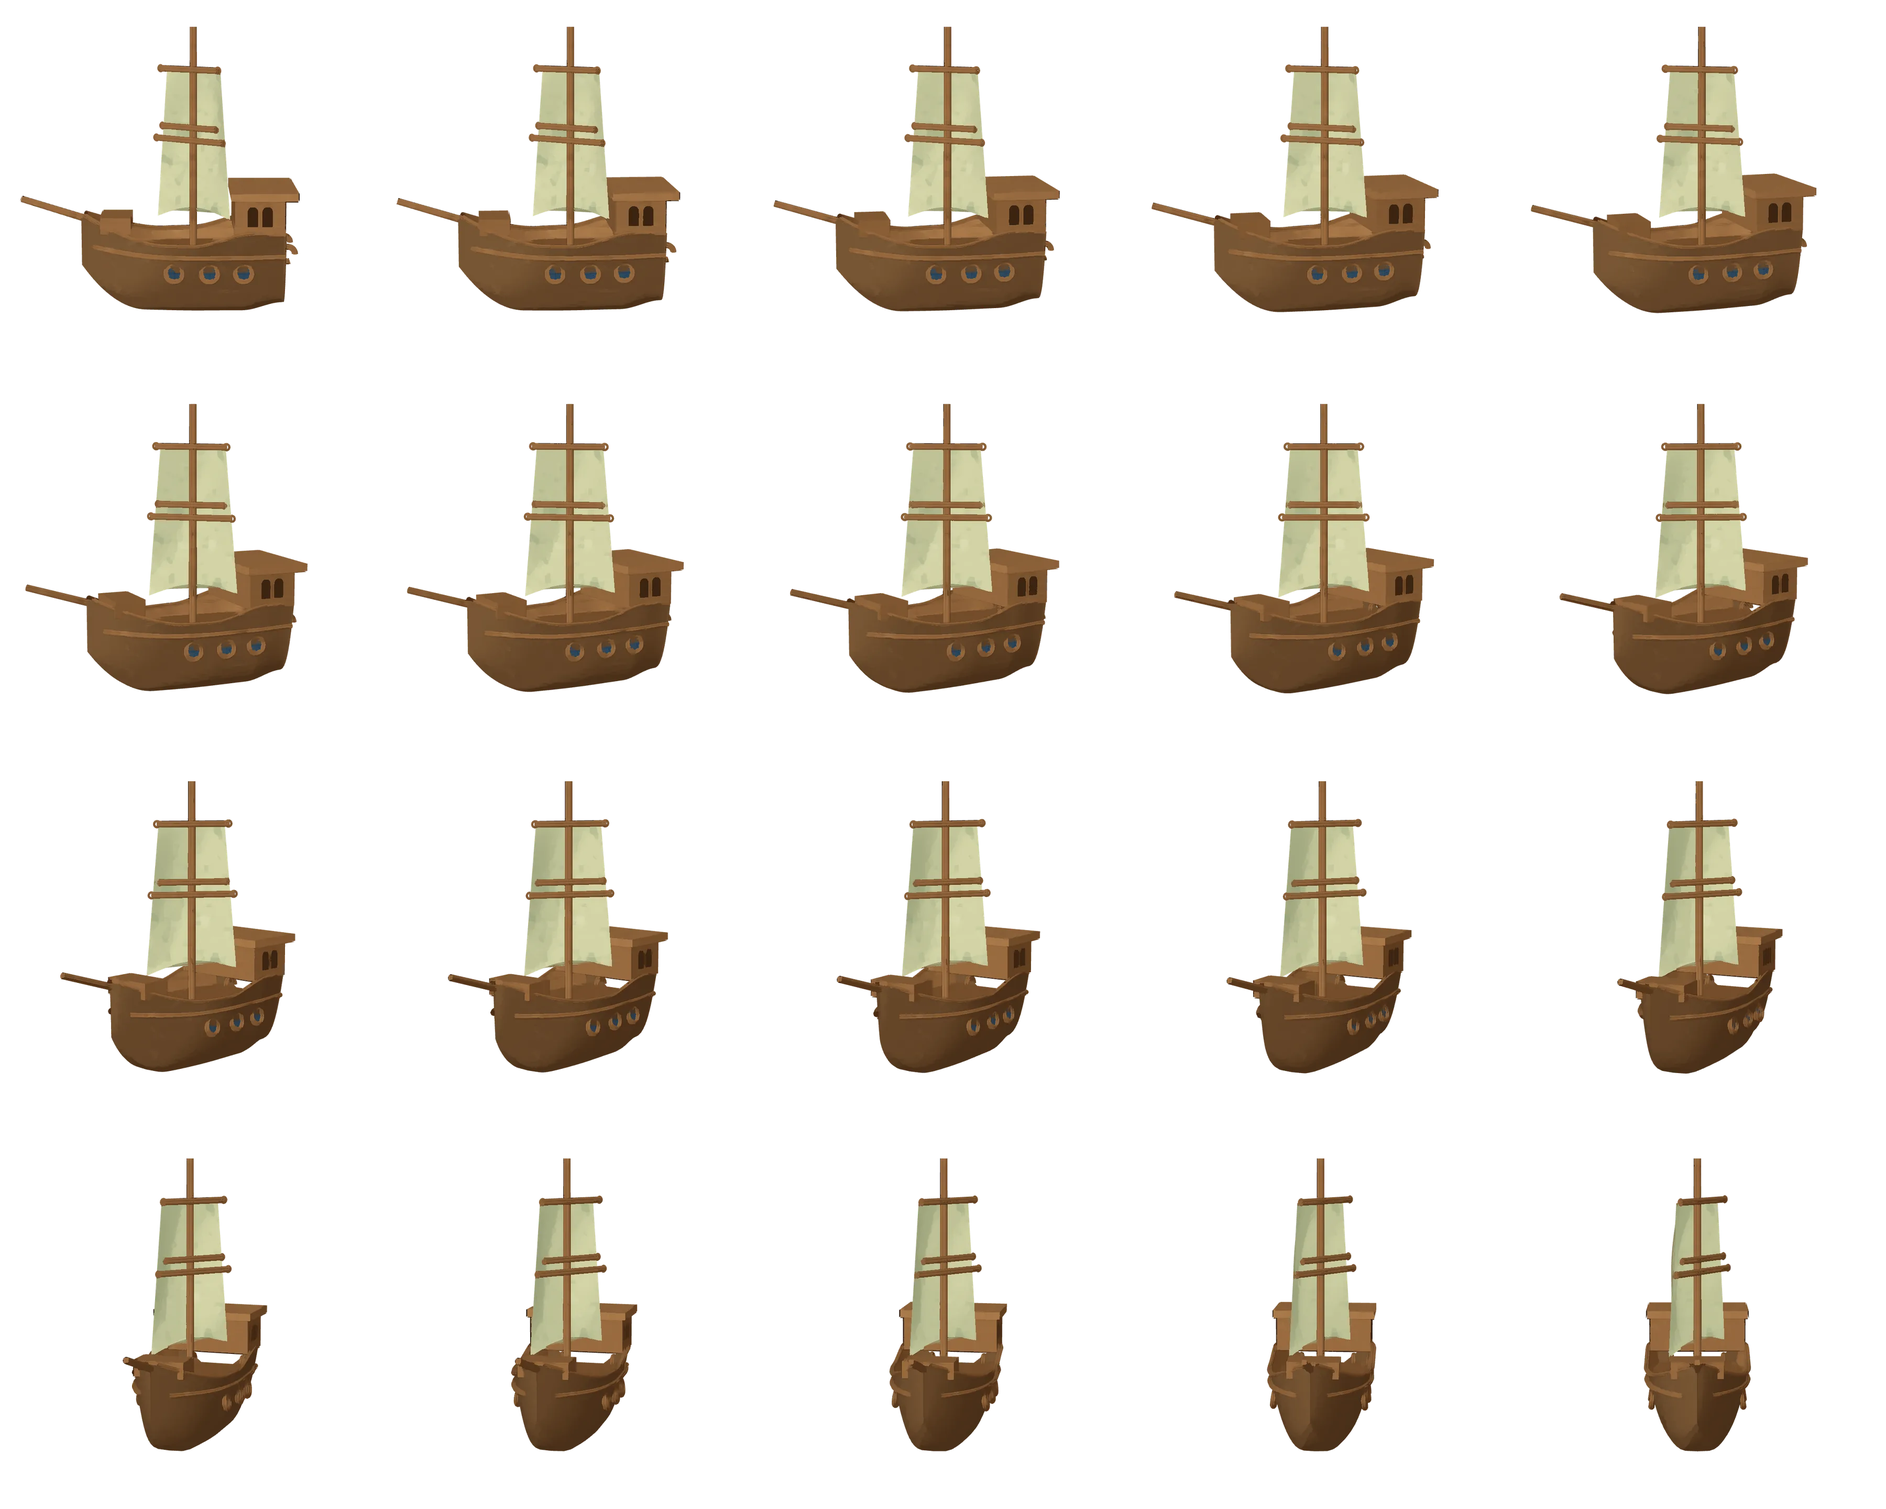
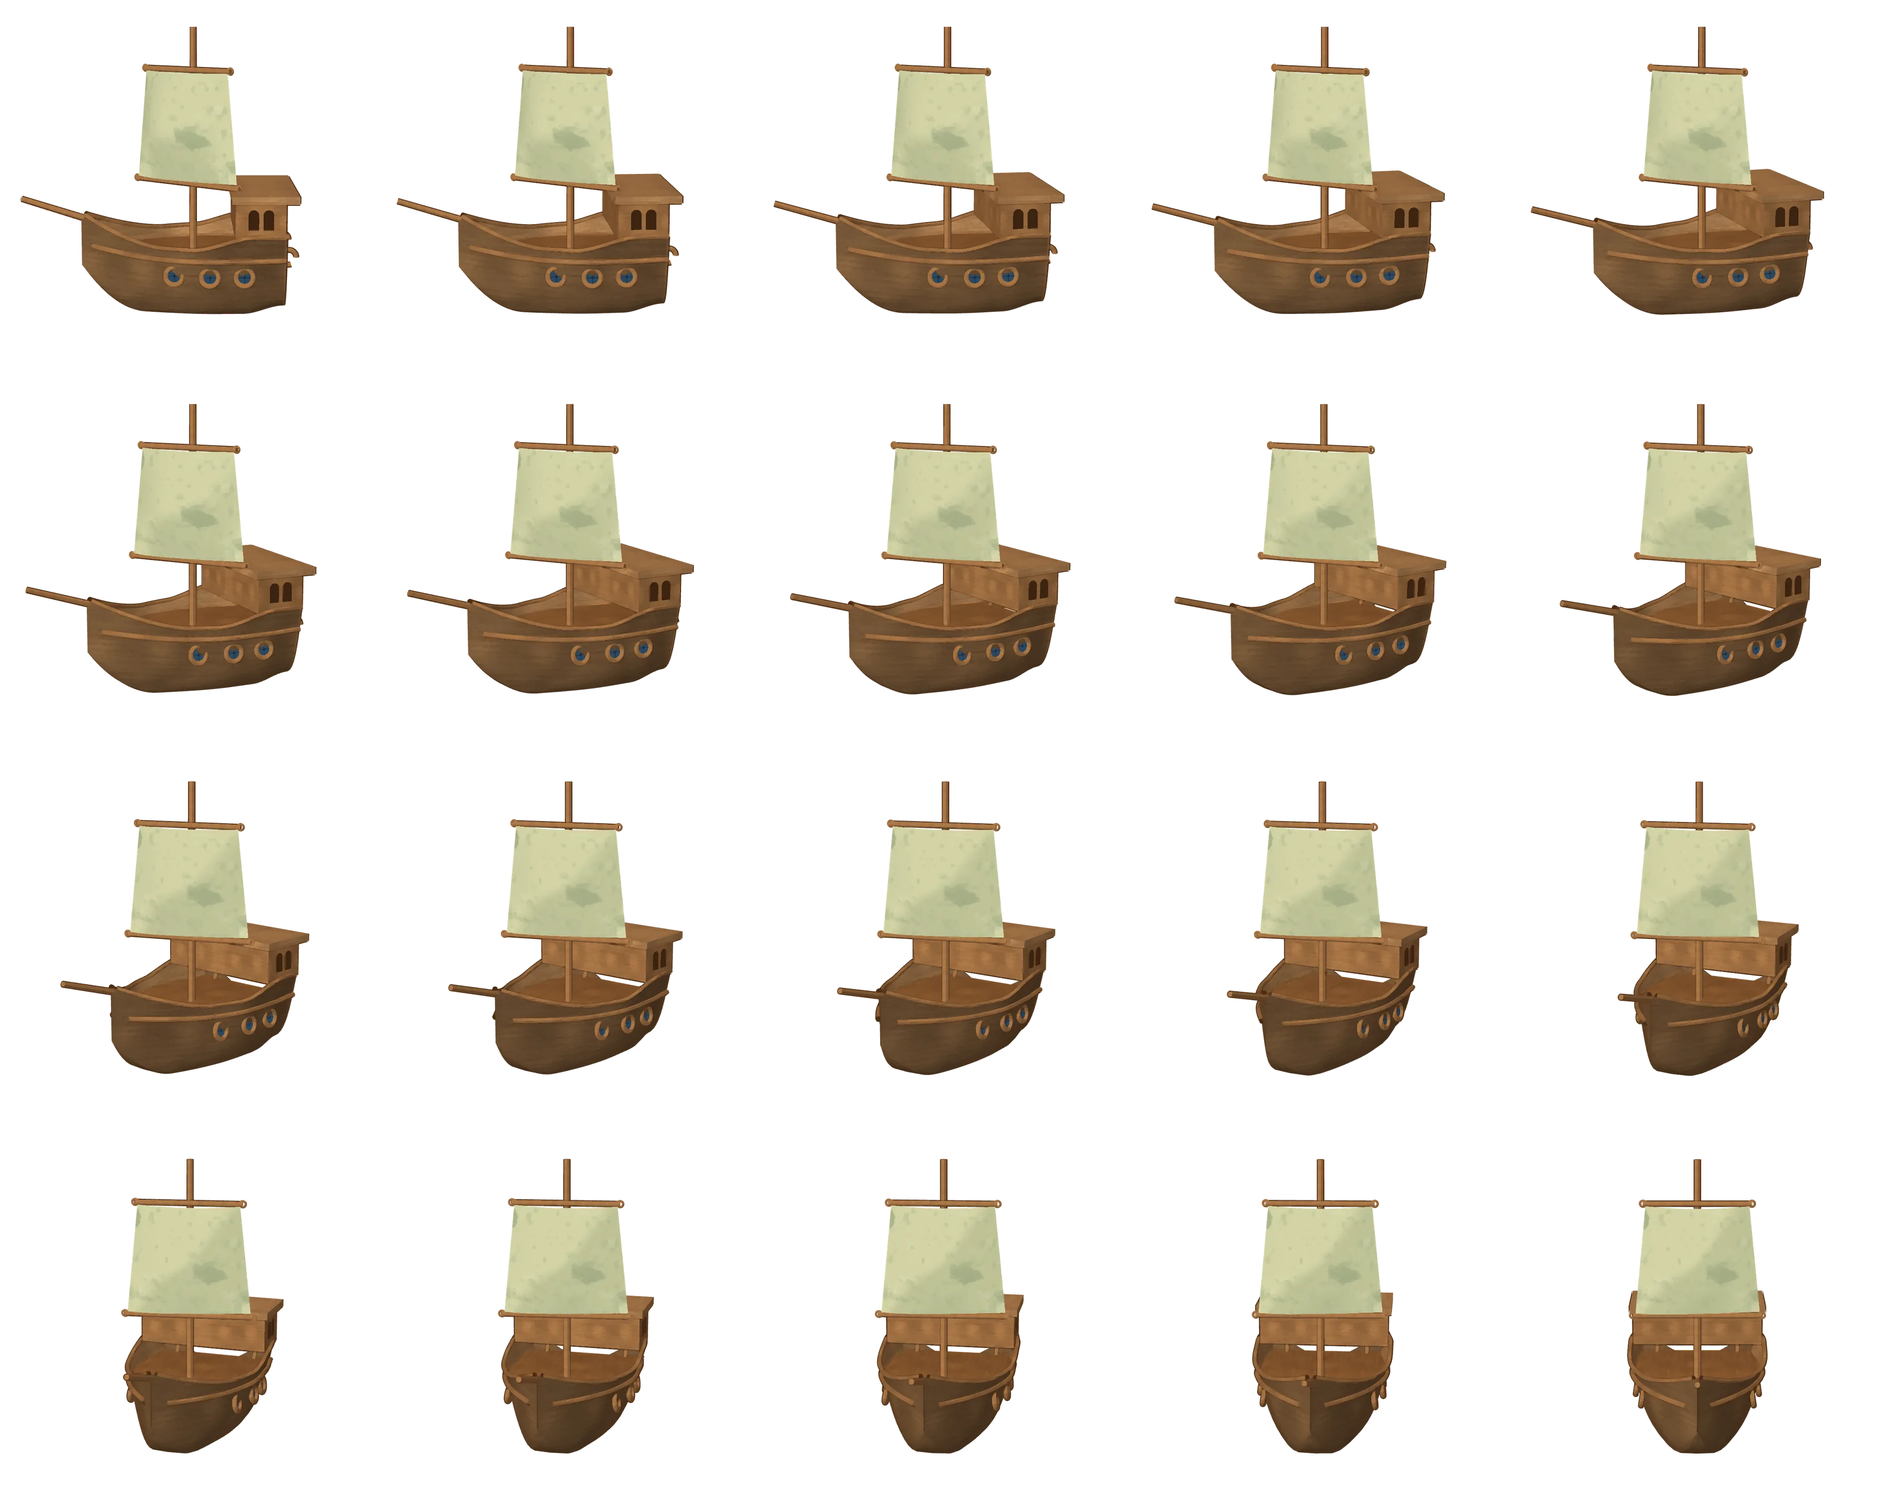
Rebuild the turning boat: wider hull, one forward sail, painted wood, bow-on last frame
Claude-Session: https://claude.ai/code/session_016zeEGyeLhWp6PeFiTfNGzV

diff --git a/tools/ship-turn/ship.html b/tools/ship-turn/ship.html
@@ -19,6 +19,24 @@ float n3(vec3 x){vec3 i=floor(x),f=fract(x);f=f*f*(3.-2.*f);
 return mix(mix(mix(h(i),h(i+vec3(1,0,0)),f.x),mix(h(i+vec3(0,1,0)),h(i+vec3(1,1,0)),f.x),f.y),
 mix(mix(h(i+vec3(0,0,1)),h(i+vec3(1,0,1)),f.x),mix(h(i+vec3(0,1,1)),h(i+vec3(1,1,1)),f.x),f.y),f.z);}
 float fbm(vec3 p){float a=.5,s=0.;for(int i=0;i<4;i++){s+=a*n3(p);p*=2.03;a*=.5;}return s;}`;
+const woodTex = new THREE.TextureLoader().load('./woodtex.png', () => { window.texReady = true; });
+woodTex.wrapS = woodTex.wrapT = THREE.RepeatWrapping;
+function woodMat(tint, dark, opt={}){
+  return new THREE.ShaderMaterial({ side: opt.side ?? THREE.FrontSide,
+    uniforms:{ uT:{value:woodTex}, uTint:{value:new THREE.Color(tint)}, uD:{value:new THREE.Color(dark)}, uLight:{value:L}, uS:{value:opt.scale||0.16}, uInner:{value:opt.inner?1:0} },
+    vertexShader:`varying vec3 vN,vO,vV,vWN; void main(){ vO=position; vN=normal; vec4 w=modelMatrix*vec4(position,1.); vWN=normalize(mat3(modelMatrix)*normal);
+      vV=normalize(cameraPosition-w.xyz); gl_Position=projectionMatrix*viewMatrix*w; }`,
+    fragmentShader:`uniform sampler2D uT; uniform vec3 uTint,uD,uLight; uniform float uS,uInner; varying vec3 vN,vO,vV,vWN;
+      void main(){ vec3 n=normalize(vN), wn=normalize(vWN); if(!gl_FrontFacing){ n=-n; wn=-wn; }
+        vec3 b=pow(abs(n),vec3(4.)); b/=b.x+b.y+b.z;
+        vec3 t=texture2D(uT,vec2(vO.x,vO.y)*uS*vec2(1.,2.)).rgb*b.z + texture2D(uT,vec2(vO.z,vO.y)*uS*vec2(1.,2.)).rgb*b.x + texture2D(uT,vec2(vO.x,vO.z)*uS).rgb*b.y;
+        float l=dot(wn,uLight); float tone=smoothstep(-.3,.2,l)*.5+smoothstep(.3,.65,l)*.5;
+        vec3 c=t*uTint*mix(.62,1.08,tone);
+        float rim=1.-abs(dot(wn,normalize(vV)));
+        c=mix(c,uD,pow(rim,2.2)*.6);                          // dark dry-brushed edges, like the painting
+        if(uInner>.5 && !gl_FrontFacing) c*=.7;
+        gl_FragColor=vec4(c,1.); }` });
+}
 function paint(base, dark, light, opt={}){
   return new THREE.ShaderMaterial({
     side: opt.side ?? THREE.FrontSide,
@@ -43,9 +61,9 @@ function paint(base, dark, light, opt={}){
         gl_FragColor=vec4(c,1.); }`
   });
 }
-const WOOD = paint('#a9794a','#6b4524','#c99c69',{grain:[.9,7,7],side:THREE.DoubleSide,inner:true});
-const WOOD2 = paint('#9a6c40','#5e3b1e','#bb8d5c',{grain:[.9,7,7]});
-const POLE = paint('#9e6f43','#5a391c','#c09062',{grain:[1,1,9]});
+const WOOD = woodMat('#ffffff','#5e3a1c',{side:THREE.DoubleSide,inner:true});
+const WOOD2 = woodMat('#e8dccb','#55341a',{scale:.3});
+const POLE = woodMat('#ece0cf','#55341a',{scale:.5});
 const SAIL = paint('#d3d4a6','#a7ad84','#e6e4bf',{grain:[1.5,1.5,1.5],side:THREE.DoubleSide,blot:'#8f9d78',blotAmt:.55});
 const GLASS = new THREE.MeshBasicMaterial({color:'#2b4a63'});
 const GLASSD = new THREE.MeshBasicMaterial({color:'#17283a'});
@@ -59,15 +77,15 @@ function add(mesh, ink=0.045){ ship.add(mesh); if(ink) outlined.push([mesh,ink])
 /* ---- hull: lofted sections, bow at -x ---- */
 const X0=-4.7, X1=4.1;
 const sm=(a,b,x)=>{x=Math.min(1,Math.max(0,(x-a)/(b-a)));return x*x*(3-2*x);};
-const W = u => 2.25*Math.pow(Math.sin(Math.min(1,u/0.6)*Math.PI/2),0.75) - 0.22*sm(.8,1,u);
+const W = u => 3.05*Math.pow(Math.sin(Math.min(1,u/0.7)*Math.PI/2),0.95) - 0.22*sm(.8,1,u);
 const YB = u => -2.1 + 1.9*Math.pow(Math.max(0,1-u/0.32),2) + 0.35*sm(.8,1,u);
 const YT = u => 1.0 + 1.1*Math.pow(Math.max(0,1-u/0.4),1.6) + 0.55*sm(.55,.85,u);
 function hullGeo(){
   const NU=80, NV=40, pos=[], idx=[];
   for(let i=0;i<=NU;i++){ const u=i/NU, x=X0+(X1-X0)*u, w=Math.max(.02,W(u)), yt=YT(u), yb=YB(u);
     for(let j=0;j<=NV;j++){ const v=j/NV, a=v*Math.PI, s=Math.cos(a), d=Math.sin(a);
-      const z = w*Math.sign(s)*Math.pow(Math.abs(s),0.45);
-      const y = yt-(yt-yb)*Math.pow(d,2.2);
+      const z = w*Math.sign(s)*Math.pow(Math.abs(s),0.32);
+      const y = yt-(yt-yb)*Math.pow(d,2.8);
       pos.push(x,y,z); } }
   for(let i=0;i<NU;i++)for(let j=0;j<NV;j++){const a=i*(NV+1)+j,b=a+NV+1; idx.push(a,b,a+1,b,b+1,a+1);}
   // transom cap
@@ -80,12 +98,12 @@ const hull = add(new THREE.Mesh(hullGeo(), WOOD), 0.05);
 { const s=new THREE.Shape(); const N=40;
   for(let i=0;i<=N;i++){const u=.05+.95*i/N; s[i?'lineTo':'moveTo'](X0+(X1-X0)*u, W(u)*.93);}
   for(let i=N;i>=0;i--){const u=.05+.95*i/N; s.lineTo(X0+(X1-X0)*u,-W(u)*.93);}
-  const d=new THREE.Mesh(new THREE.ShapeGeometry(s), paint('#8a5d35','#5a391c','#a87a4c',{grain:[.8,6,6],side:THREE.DoubleSide}));
+  const d=new THREE.Mesh(new THREE.ShapeGeometry(s), woodMat('#cdb497','#5a391c',{side:THREE.DoubleSide}));
   d.rotation.x=-Math.PI/2; d.position.y=0.55; ship.add(d); }
 // a dark band (wale) along the hull
 { const pts=[]; for(let i=0;i<=60;i++){const u=.06+.94*i/60; pts.push(new THREE.Vector3(X0+(X1-X0)*u, 0.55+0.25*Math.pow(Math.max(0,1-u/0.4),1.6), 0));}
-  for (const side of [1,-1]) { const p2=pts.map((p,i)=>{const u=.06+.94*i/60; const yt=YT(u),yb=YB(u); const d=Math.pow((yt-p.y)/(yt-yb),1/2.2); const a=Math.asin(Math.min(1,d)); const s=Math.cos(a);
-      return new THREE.Vector3(p.x,p.y,side*(Math.max(.02,W(u))*Math.pow(s,0.45)+0.06));});
+  for (const side of [1,-1]) { const p2=pts.map((p,i)=>{const u=.06+.94*i/60; const yt=YT(u),yb=YB(u); const d=Math.pow((yt-p.y)/(yt-yb),1/2.8); const a=Math.asin(Math.min(1,d)); const s=Math.cos(a);
+      return new THREE.Vector3(p.x,p.y,side*(Math.max(.02,W(u))*Math.pow(s,0.32)+0.06));});
     add(new THREE.Mesh(new THREE.TubeGeometry(new THREE.CatmullRomCurve3(p2),80,0.11,8), WOOD2),0.03); } }
 // rail cap along the top edge
 for (const side of [1,-1]) { const p=[]; for(let i=0;i<=60;i++){const u=.02+.98*i/60; p.push(new THREE.Vector3(X0+(X1-X0)*u, YT(u)+.05, side*Math.max(.02,W(u))));}
@@ -102,14 +120,10 @@ const castle = new THREE.Group(); ship.add(castle);
   for (const dz of [-.45,0,.45]) { const m=new THREE.Mesh(new THREE.ShapeGeometry(arch), SHADOW); m.scale.setScalar(.8);
     m.position.set(x+len/2+0.01, y0+h*.55, dz); m.rotation.y=Math.PI/2; castle.add(m); }
 }
-/* ---- raised bow with notched bulwark ---- */
-{ const u=.12, x=X0+(X1-X0)*u+0.2;
-  const g=new THREE.BoxGeometry(1.3,0.7,W(u+.05)*2*0.9); const m=new THREE.Mesh(g,WOOD2); m.position.set(x+0.3,YT(u)+0.1,0); add(m,.04); }
-
 /* ---- portholes ---- */
 for (const side of [1,-1]) for (const px of [-0.6,0.9,2.35]) {
-  const u=(px-X0)/(X1-X0), yt=YT(u), yb=YB(u), y=-0.15, d=Math.pow((yt-y)/(yt-yb),1/2.2), s=Math.cos(Math.asin(Math.min(1,d)));
-  const z=side*(W(u)*Math.pow(s,0.45));
+  const u=(px-X0)/(X1-X0), yt=YT(u), yb=YB(u), y=-0.15, d=Math.pow((yt-y)/(yt-yb),1/2.8), s=Math.cos(Math.asin(Math.min(1,d)));
+  const z=side*(W(u)*Math.pow(s,0.32));
   const g=new THREE.Group(); g.position.set(px,y,z+side*0.04);
   const nrm=new THREE.Vector3(0,0.15,side).normalize(); g.lookAt(g.position.clone().add(nrm));
   const ring=new THREE.Mesh(new THREE.TorusGeometry(0.36,0.11,10,28), WOOD2); g.add(ring);
@@ -120,7 +134,7 @@ for (const side of [1,-1]) for (const px of [-0.6,0.9,2.35]) {
 }
 /* ---- stern scroll ---- */
 for (const side of [1,-1]) { const t=new THREE.Mesh(new THREE.TorusGeometry(0.32,0.1,8,24,Math.PI*1.6), WOOD2);
-  t.position.set(X1+0.15, 0.55, side*1.25); add(t,.03); }
+  t.position.set(X1+0.15, 0.55, side*1.9); add(t,.03); }
 
 /* ---- bowsprit, mast, yards, sail ---- */
 function pole(a,b,r){ const v=new THREE.Vector3().subVectors(b,a), m=new THREE.Mesh(new THREE.CylinderGeometry(r*.85,r,v.length(),10), POLE);
@@ -130,9 +144,9 @@ const MX=0.2;
 pole(new THREE.Vector3(MX,0.5,0), new THREE.Vector3(MX,10.2,0), .15);
 const BR = 52*Math.PI/180;              // yards braced round so the sail shows from the side and the front
 const rig = new THREE.Group(); rig.position.x=MX; rig.rotation.y=BR; ship.add(rig);
-function yard(y,len){ const m=new THREE.Mesh(new THREE.CylinderGeometry(.11,.11,len,10),POLE); m.rotation.x=Math.PI/2; m.position.set(-0.32,y,0); rig.add(m); outlined.push([m,.03]);
-  for(const e of [-1,1]){const k=new THREE.Mesh(new THREE.TorusGeometry(.13,.05,6,14),POLE); k.position.set(-0.32,y,e*len/2); k.rotation.y=Math.PI/2; rig.add(k);} }
-yard(8.4,3.1); yard(5.9,2.9); yard(5.35,3.6);
+function yard(y,len){ const m=new THREE.Mesh(new THREE.CylinderGeometry(.11,.11,len,10),POLE); m.rotation.x=Math.PI/2; m.position.set(-0.45,y,0); rig.add(m); outlined.push([m,.03]);
+  for(const e of [-1,1]){const k=new THREE.Mesh(new THREE.TorusGeometry(.13,.05,6,14),POLE); k.position.set(-0.45,y,e*len/2); k.rotation.y=Math.PI/2; rig.add(k);} }
+yard(8.4,4.6); yard(3.5,5.6);
 function sailGeo(yTop,yBot,wTop,wBot,belly,curveFoot){
   const NU=24,NV=24,pos=[],idx=[];
   for(let i=0;i<=NV;i++){const v=i/NV, y=yTop+(yBot-yTop)*v, w=wTop+(wBot-wTop)*v;
@@ -140,7 +154,7 @@ function sailGeo(yTop,yBot,wTop,wBot,belly,curveFoot){
       pos.push(bul + 0.25*Math.sin(v*3)*0, y + (i===NV?curveFoot*Math.sin(Math.PI*u):0) + 0.25*(u-.5)*v, z);} }
   for(let i=0;i<NV;i++)for(let j=0;j<NU;j++){const a=i*(NU+1)+j,b=a+NU+1;idx.push(a,b,a+1,b,b+1,a+1);}
   const g=new THREE.BufferGeometry();g.setAttribute('position',new THREE.Float32BufferAttribute(pos,3));g.setIndex(idx);g.computeVertexNormals();return g;}
-{ const s1=new THREE.Mesh(sailGeo(8.35,1.9,2.9,4.0,1.1,0.45),SAIL); rig.add(s1); outlined.push([s1,.035]); }
+{ const s1=new THREE.Mesh(sailGeo(8.3,3.55,4.4,5.4,-1.4,0),SAIL); s1.position.x=-0.5; rig.add(s1); outlined.push([s1,.035]); }
 
 /* ---- ink outlines (inverted hulls) ---- */
 for (const [m,w] of outlined) {
@@ -153,10 +167,10 @@ for (const [m,w] of outlined) {
 }
 
 ship.scale.setScalar(1);
-window.renderAt = (deg) => { ship.rotation.y = deg*Math.PI/180; renderer.render(scene,cam);
+window.renderAt = (deg) => { const el=(9+7*deg/90)*Math.PI/180; cam.position.set(0, Math.sin(el)*DIST + 3.2, Math.cos(el)*DIST); cam.lookAt(0,3.2,0); ship.rotation.y = deg*Math.PI/180; rig.rotation.y = BR*(1-deg/90); renderer.render(scene,cam);
   // project the mast top and the deck point under the mast, for the flag and the character
   const tip=new THREE.Vector3(MX,10.2,0).applyMatrix4(ship.matrixWorld).project(cam);
-  const deck=new THREE.Vector3(MX-1.6,0.55,0).applyMatrix4(ship.matrixWorld).project(cam);
+  const deck=new THREE.Vector3(MX-2.3,0.55,0).applyMatrix4(ship.matrixWorld).project(cam);
   return { png: renderer.domElement.toDataURL('image/png'), tip:[(tip.x+1)/2,(1-tip.y)/2], deck:[(deck.x+1)/2,(1-deck.y)/2] }; };
-window.ready = true;
+window.ready = true; window.texReady = window.texReady || false;
 </script></body></html>

diff --git a/js/hero.js b/js/hero.js
@@ -37,7 +37,7 @@
   var ship = document.querySelector(".ship"), bob = document.querySelector(".ship__bob");
   var hull = document.querySelector(".ship__hull"), frames = document.querySelector(".ship__frames");
   // per frame of the turn: mast top (x, y) and deck spot under the crew (x, y), in % of the ship box
-  var TURN = [[62.04,-9.75,48.97,75.95],[62.03,-9.75,48.98,76.16],[62.01,-9.75,49.07,76.37],[61.98,-9.76,49.24,76.58],[61.94,-9.76,49.49,76.78],[61.89,-9.76,49.81,76.98],[61.83,-9.77,50.21,77.17],[61.76,-9.77,50.68,77.36],[61.68,-9.77,51.22,77.53],[61.59,-9.77,51.82,77.7],[61.49,-9.78,52.49,77.85],[61.39,-9.78,53.21,77.99],[61.27,-9.78,53.99,78.12],[61.16,-9.78,54.81,78.23],[61.03,-9.78,55.67,78.33],[60.9,-9.78,56.57,78.41],[60.77,-9.79,57.49,78.47],[60.64,-9.79,58.44,78.52],[60.5,-9.79,59.39,78.54],[60.36,-9.79,60.36,78.55]];
+  var TURN = [[61.57,-10.38,42.95,74.68],[61.57,-10.37,42.95,74.97],[61.55,-10.37,43.08,75.28],[61.53,-10.36,43.32,75.6],[61.49,-10.35,43.68,75.94],[61.44,-10.34,44.15,76.28],[61.38,-10.33,44.74,76.63],[61.31,-10.32,45.43,76.99],[61.23,-10.3,46.23,77.34],[61.14,-10.29,47.13,77.69],[61.04,-10.27,48.12,78.03],[60.94,-10.25,49.2,78.36],[60.83,-10.23,50.36,78.67],[60.71,-10.21,51.59,78.96],[60.58,-10.18,52.88,79.22],[60.46,-10.15,54.22,79.46],[60.32,-10.12,55.61,79.66],[60.19,-10.08,57.02,79.83],[60.05,-10.04,58.46,79.95],[59.91,-9.99,59.91,80.04]];
   var FLAG0 = [58.2, -2.3];   // where the flag hangs on the painted hero ship
   var turnLoaded = false;
   function loadTurn() { if (!turnLoaded && frames) { turnLoaded = true; frames.style.backgroundImage = "url(assets/hero/ship-turn.webp)"; } }

diff --git a/tools/ship-turn/render.js b/tools/ship-turn/render.js
@@ -3,7 +3,7 @@ const { chromium } = require('playwright'); const fs=require('fs'); const OUT=pr
   const b = await chromium.launch({args:['--use-gl=angle','--use-angle=swiftshader','--enable-unsafe-swiftshader','--allow-file-access-from-files']});
   const p = await b.newPage({viewport:{width:900,height:900}});
   p.on('pageerror',e=>console.log('err',e.message)); p.on('console',m=>console.log(m.text()));
-  await p.goto('http://localhost:8766/ship.html'); await p.waitForFunction(()=>window.ready);
+  await p.goto('http://localhost:8766/ship.html'); await p.waitForFunction(()=>window.ready && window.texReady);
   const angles = JSON.parse(process.argv[2]||'[0,30,60,90]'); const meta=[];
   for (const a of angles) { const r = await p.evaluate(a=>window.renderAt(a), a);
     fs.writeFileSync(`${OUT}/f${String(a).padStart(3,'0')}.png`, Buffer.from(r.png.split(',')[1],'base64')); meta.push({a,tip:r.tip,deck:r.deck}); }

diff --git a/css/hero.css b/css/hero.css
@@ -173,7 +173,7 @@ a:focus-visible { outline: 2px solid var(--teal); outline-offset: 3px; }
    flag and crew to follow the mast and deck */
 .ship__turn { transform-origin: 50% 88%; transform: scale(calc(1 - var(--exit, 0) * .08)); }
 .ship__frames {
-  left: -7.207%; top: -20.157%; width: 135.135%; height: 146.136%;
+  left: -7.154%; top: -20.712%; width: 134.128%; height: 145.047%;
   background: 0 0 / 500% 400% no-repeat; opacity: 0; pointer-events: none;
 }
 .ship__flag, .ship__cloth { translate: var(--fx, 0) var(--fy, 0); }

diff --git a/tools/ship-turn/woodtex.py b/tools/ship-turn/woodtex.py
@@ -1,0 +1,27 @@
+# hand-painted wood: soft base + many dry-brush strokes along the grain, tileable left-right
+import numpy as np
+from PIL import Image, ImageDraw, ImageFilter
+rng=np.random.default_rng(7); W,H=1024,512
+def hexc(h): return tuple(int(h[i:i+2],16) for i in (1,3,5))
+base=np.zeros((H,W,3),np.float32)+np.array(hexc('#ad8053'),np.float32)
+# big soft tone patches, like a wide wet brush
+lo=rng.random((5,9)); lo=np.asarray(Image.fromarray((lo*255).astype(np.uint8)).resize((W+W//8,H),Image.BICUBIC))[:, :W]/255.
+lo=(lo+lo[:, ::-1])/2   # keep the left and right edges matching so it tiles
+base*= (0.82+0.3*lo)[...,None]
+img=Image.fromarray(np.clip(base,0,255).astype(np.uint8)).convert('RGBA')
+pal=['#8a5c34','#7a4e2a','#c49a6b','#d4ab7c','#9b6c40','#6e4424','#b88c5e']
+for n in range(900):
+    layer=Image.new('RGBA',(W,H),(0,0,0,0)); d=ImageDraw.Draw(layer)
+    c=hexc(pal[rng.integers(len(pal))]); a=int(rng.uniform(30,95))
+    y=rng.uniform(0,H); x=rng.uniform(0,W); L=rng.uniform(80,420); w=rng.uniform(2,11); bend=rng.uniform(-14,14)
+    pts=[(x+t*L, y+bend*np.sin(np.pi*t)+rng.normal(0,.6)) for t in np.linspace(0,1,24)]
+    for dx in (-W,0,W):
+        d.line([(p[0]+dx,p[1]) for p in pts], fill=c+(a,), width=int(w))
+    arr=np.asarray(layer).astype(np.float32)
+    # dry brush: break the stroke up with streaky noise along the grain
+    nz=rng.random((H//2+1,W//16+1)); nz=np.asarray(Image.fromarray((nz*255).astype(np.uint8)).resize((W,H+2),Image.BILINEAR))[:H]/255.
+    arr[...,3]*=np.clip((nz-.25)*2.2,0,1)
+    img=Image.alpha_composite(img,Image.fromarray(arr.astype(np.uint8)))
+img=img.convert('RGB')
+g=rng.normal(0,7,(H,W,1)); out=np.clip(np.asarray(img).astype(np.float32)+g,0,255).astype(np.uint8)
+Image.fromarray(out).filter(ImageFilter.GaussianBlur(.6)).save('woodtex.png')

diff --git a/tools/ship-turn/paintfx.py b/tools/ship-turn/paintfx.py
@@ -17,7 +17,7 @@ def fx(src,dst,size):
     # bleed colour into transparent pixels so edges do not pick up black
     pre=np.stack([uniform_filter(rgb[...,i]*a[...,0],5) for i in range(3)],-1); aw=uniform_filter(a[...,0],5)[...,None]
     rgb=np.where(a>0.01,rgb,pre/np.maximum(aw,1e-4))
-    out=kuwahara(rgb,6)
+    out=kuwahara(rgb,3)
     res=np.concatenate([np.clip(out,0,1),a],-1)
     Image.fromarray((res*255).astype(np.uint8)).resize((size,size),Image.LANCZOS).save(dst)
 if __name__=='__main__':

diff --git a/tools/ship-turn/README.md b/tools/ship-turn/README.md
@@ -2,7 +2,7 @@
 
 `ship.html` builds the hero ship as a small three.js model (hull, castle, portholes, mast, yards, sail)
 with a painterly shader in Saumya's colours. `render.js` renders it at given angles in headless Chromium,
-and `paintfx.py` softens each render into brush-like patches (Kuwahara filter).
+and `woodtex.py` paints the dry-brush wood texture (`woodtex.png`) the hull is wrapped in, and `paintfx.py` softens each render into brush-like patches (Kuwahara filter).
 
     npm i three@0.160.0 playwright && cp node_modules/three/build/three.module.js .
     python3 -m http.server 8766 &
